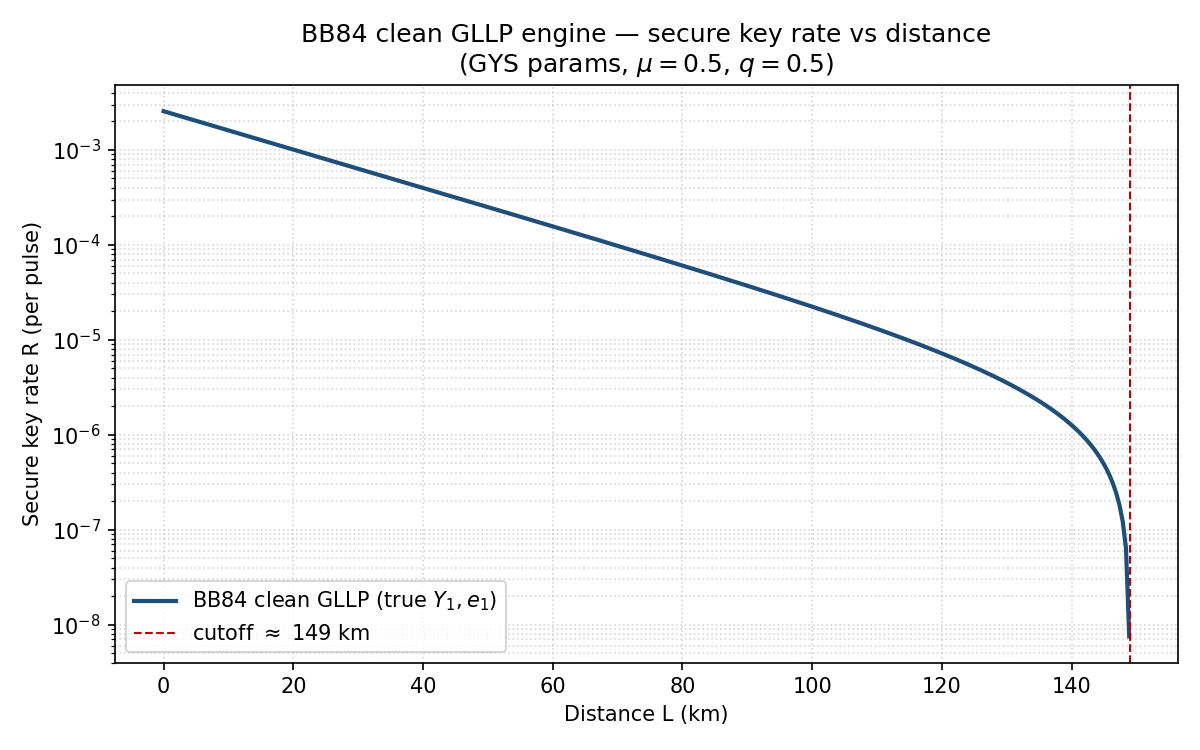
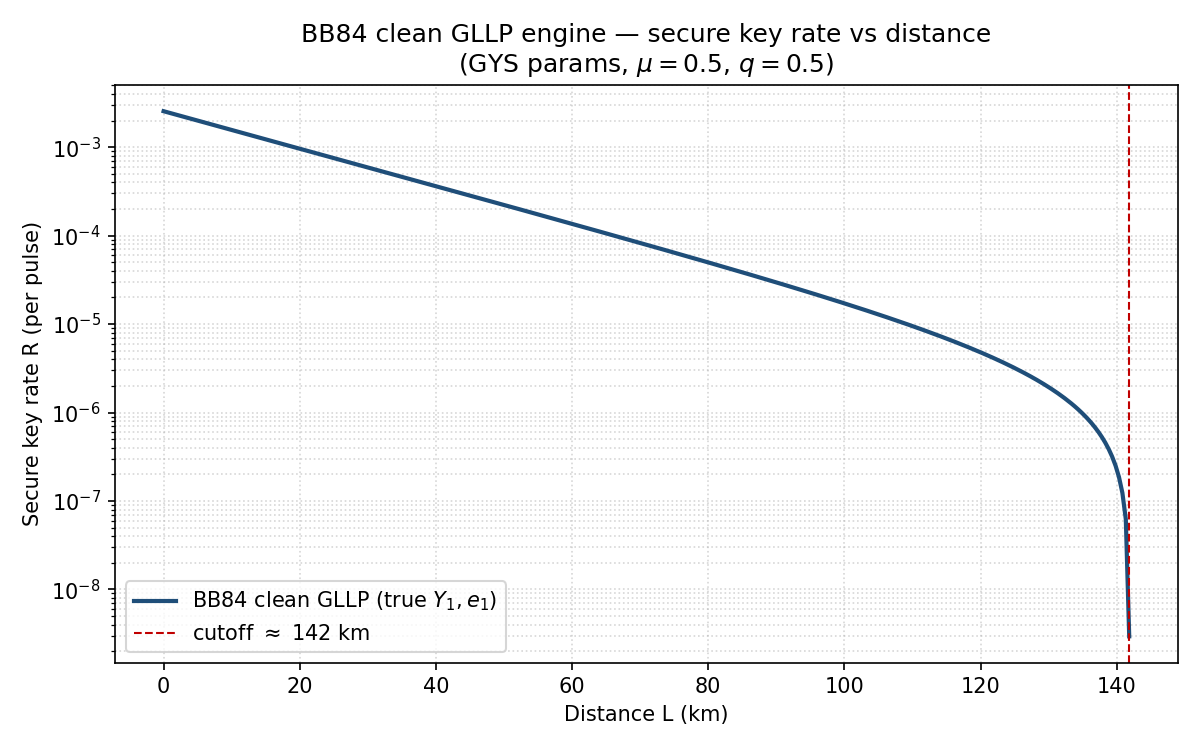
Milestone 2 Pair 1: PNS crash + infinite-decoy ceiling (BB84)
- keyrate.py: LMC Eq. 12/13 no-decoy GLLP bound (omega, key_rate_no_decoy);
  optimize_no_decoy (mu re-optimized per distance, MQZL p.6 principle).
- Correct frozen ALPHA_DB_PER_KM 0.20 -> 0.21 (GYS, MQZL Table 1): lands
  Fig.1 validation (insecurity bound 208 km exact, ceiling reach 142 km).
- sweep.py: two-curve Pair-1 plot (infinite-decoy CEILING vs no-decoy
  crash) + insecurity bound; regenerated M1 figure at alpha=0.21.

Note: blue curve is the infinite-decoy ceiling (true Y1/e1), NOT decoy
estimation. Practical two-decoy recovery (MQZL estimators) still to come.

Cutoffs: ceiling ~142 km, no-decoy crash ~40 km, insecurity ~208 km.

diff --git a/src/keyrate.py b/src/keyrate.py
@@ -4,12 +4,17 @@ GLLP secret-key-rate engine for BB84
 Equations coded directly from Lo, Ma & Chen (LMC),
 "Decoy State Quantum Key Distribution",
 arXiv:quant-ph/0411004v4, PRL 94, 230504 (2005).
-Equation numbers in comments refer to that paper.
+Equation numbers in comments refer to that paper unless noted otherwise
+(the no-decoy mu optimization cites MQZL, quant-ph/0503005).
 
-Milestone 1: clean-protocol engine (no eavesdropper, no decoy estimation yet).
+Milestone 1: clean-protocol engine (Eqs. 2,3,6,7,8,10,11).
+Milestone 2 Pair 1: no-decoy GLLP/PNS-crash bound (Eqs. 12,13) + per-distance
+mu optimization (optimize_no_decoy). Practical decoy ESTIMATION (MQZL
+Y1^L/e1^U estimators) is not implemented yet -- the current "decoy" ceiling
+is the infinite-decoy limit (true Y1/e1 via secret_key_rate).
 """
 
-from math import log2, exp, factorial
+from math import log2, log10, exp, factorial
 
 
 def binary_entropy(x):
@@ -27,7 +32,11 @@ def binary_entropy(x):
 ''' --- Frozen physical constants (GYS experiment, LMC Fig. 1 validation) ---
  Named per project convention so they can be deliberately un-frozen as
  "twists" later. Values are the GYS parameter set LMC validate against.'''
-ALPHA_DB_PER_KM = 0.2     # standard fiber attenuation (dB/km)
+ALPHA_DB_PER_KM = 0.21    # GYS fiber loss coefficient (dB/km), MQZL Table 1.
+                          # Was 0.20 (rounded); corrected to the sourced GYS
+                          # value. Reach ~ 1/alpha, so this shift lands the
+                          # Fig.1 validation: insecurity bound -> 208 km exact,
+                          # decoy reach -> 142 km (~140).
 ETA_DET = 0.045           # Bob's detector efficiency (dimensionless)
 P_DARK = 1.7e-6           # dark-count probability per pulse
 E_DETECTOR = 0.033        # optical misalignment error (per detected photon)
@@ -201,10 +210,10 @@ def e_1(eta, p_dark, e_detector):
     the physics give?" -- it is the optimistic ceiling. In the real
     security analysis e_1 must instead be an *upper bound*:
       - GLLP-only (no decoy): assume the worst case Eve could arrange
-        -> pessimistic bound, the ~30 km curve.
+        -> pessimistic bound, the ~40 km crash curve.
       - Decoy states (Milestone 2, MQZL): vary mu to get several
         (Q_mu, E_mu) equations and tightly *estimate* Y_1 and e_1
-        -> the ~140 km curve.
+        -> the ~142 km curve.
     Same symbol, three different ways of pinning it down.
     """
     return error_n(1, eta, p_dark, e_detector)
@@ -268,3 +277,122 @@ def secret_key_rate(mu, eta, p_dark, e_detector, f=F_EC, q=Q_SIFT):
     cost = Q_mu * f * binary_entropy(E_mu)
     good = Q_1 * (1 - binary_entropy(e1))
     return q * (good - cost)
+
+
+# --- Pair 1, no-decoy defense: prior-art GLLP bound (the PNS crash) ---------
+# These reproduce LMC's "GLLP without decoy" curve. Provenance / convention:
+# Eq. 12 is printed in LMC with NEITHER the sifting prefactor q NOR the
+# error-correction inefficiency f (both implicitly 1). We DEVIATE from the
+# printed form on purpose (student's choice): we apply the SAME frozen q and
+# f as secret_key_rate (Eq. 11), i.e. q*Q_mu{ -f*H2(E_mu) + Omega[...] }, so
+# the crash curve and the decoy curve share one convention. That makes the
+# vertical gap between them PURE PHYSICS (Omega and the blown-up single-
+# photon error E_mu/Omega), not a q/f artifact -- which is the whole point
+# of putting both on one plot. The distance crash (~142 km -> ~40 km) is
+# driven by Omega, not q or f, so it is the same either way.
+
+def omega(mu, eta, p_dark, n_max=N_MAX):
+    """
+    Untagged fraction Omega: the pessimistic fraction of Bob's detections
+    treated as originating from single-photon signals when NO decoy states
+    are used.
+
+    LMC Eq. 13:  1 - Omega = p_multi / Q_mu   =>   Omega = 1 - p_multi / Q_mu
+
+    p_multi is the probability Alice emits a multi-photon (n >= 2) signal.
+    For a Poisson source it is the complement of the vacuum and single-photon
+    weights:
+        p_multi = 1 - P(0) - P(1) = 1 - e^{-mu} - mu*e^{-mu}
+                = 1 - e^{-mu}(1 + mu)
+
+    WORST CASE (this is the whole point of the no-decoy bound): assume every
+    multi-photon pulse Alice ever emitted reached Bob AND is fully known to
+    Eve via photon-number splitting. Those detections are "tagged" (insecure).
+    Only the leftover, Q_mu - p_multi, may be counted as secure single-photon
+    detections -- so Omega is a pessimistic LOWER bound on the true single-
+    photon fraction. Decoy states later replace it with a measured, far
+    tighter value; that replacement is what recovers the distance.
+
+    Note Omega needs only Q_mu and p_multi, both computable by the honest
+    parties without any ability to distinguish Eve -- which is exactly why
+    this is the best they can do without decoy states.
+    """
+    p_multi = 1 - exp(-mu) * (1 + mu)
+    return 1 - p_multi / q_mu(mu, eta, p_dark, n_max)
+
+
+def key_rate_no_decoy(mu, eta, p_dark, e_detector, f=F_EC, q=Q_SIFT, n_max=N_MAX):
+    """
+    Secure key rate per pulse for BB84 WITHOUT decoy states, uses the prior-art
+    GLLP bound, i.e. the PNS-crash curve.
+
+    LMC Eq. 12 (as printed):
+        S >= Q_mu { -H2(E_mu) + Omega [ 1 - H2(E_mu / Omega) ] }
+
+    Coded here in the q/f-consistent form (project choice (b)) so it is
+    directly comparable on one plot to secret_key_rate (Eq. 11):
+        S >= q * Q_mu { -f * H2(E_mu) + Omega [ 1 - H2(E_mu / Omega) ] }
+
+    Both substitutions are pessimistic, forced because without decoy the
+    honest parties can measure only the aggregates Q_mu and E_mu:
+      - single-photon FRACTION Q_1/Q_mu  ->  Omega (Eq. 13), worst-case
+        untagged fraction;
+      - single-photon ERROR e_1  ->  E_mu / Omega, i.e. ALL observed error
+        dumped onto the untagged single-photon slice. Since Omega < 1 this
+        inflates the error; as L grows Omega shrinks and E_mu/Omega races
+        upward, H2(.) -> 1, the gain term vanishes, and R crashes (~40 km vs
+        the ~142 km ceiling).
+
+    Numerical guard: E_mu/Omega is an artificially inflated error that can
+    exceed 1/2. Our binary_entropy is symmetric about 1/2 (H2(0.75)=H2(0.25)),
+    so feeding it a value >1/2 would let 1-H2 spuriously RECOVER to a positive
+    gain -- physically wrong (an error >= 1/2 carries no extractable key). We
+    therefore cap the argument at 1/2, where H2 peaks: for e1_bound >= 1/2 the
+    gain term is exactly 0 and R is (correctly) non-positive. This only bites
+    past the cutoff where R is already negative, so it does not move the ~40 km
+    crash point; it just keeps the curve physical there.
+
+    Returns the RAW bound (may be negative past the cutoff), same convention
+    as secret_key_rate.
+    """
+    Q_mu = q_mu(mu, eta, p_dark, n_max)
+    E_mu = e_mu(mu, eta, p_dark, e_detector, n_max)
+    Om = omega(mu, eta, p_dark, n_max)
+
+    e1_bound = min(E_mu / Om, 0.5)          # cap: error >= 1/2 -> no key
+    good = Om * (1 - binary_entropy(e1_bound))
+    cost = f * binary_entropy(E_mu)
+    return q * Q_mu * (good - cost)
+
+
+def optimize_no_decoy(eta, p_dark, e_detector, f=F_EC, q=Q_SIFT,
+                      mu_min=1e-4, mu_max=0.9, n_grid=500):
+    """
+    Best no-decoy (prior-art GLLP) secure key rate at a given channel, found
+    by optimizing over Alice's mean photon number mu.
+
+    HOW (cited to MQZL): MQZL p.6, section "Choose optimal mu", prescribes
+    picking mu "by maximizing the key generation rate". There is NO closed
+    form for the optimum, so we implement that principle directly: scan mu
+    and return the value that maximizes key_rate_no_decoy (LMC Eq. 12). The
+    mu-scan is our own numerical maximization, NOT a transcribed equation.
+
+    WHY mu is re-optimized per distance (cited to LMC): LMC p.3 states that
+    without decoy, mu = O(eta). As eta shrinks with distance the optimal mu
+    shrinks with it, so no single frozen mu serves all distances -- unlike
+    the decoy curve, where mu = O(1) ~ 0.5 is ~distance-independent (LMC p.4).
+    That is exactly why the no-decoy curve gets its own per-point mu while
+    the decoy curve keeps the frozen MU.
+
+    The grid is LOG-spaced because the optimum sits at small mu (~1e-2) where
+    a linear grid would be too coarse. Returns (R_best, mu_best).
+    """
+    R_best = float("-inf")
+    mu_best = mu_min
+    log_lo, log_hi = log10(mu_min), log10(mu_max)
+    for i in range(n_grid + 1):
+        mu = 10 ** (log_lo + (log_hi - log_lo) * i / n_grid)
+        R = key_rate_no_decoy(mu, eta, p_dark, e_detector, f=f, q=q)
+        if R > R_best:
+            R_best, mu_best = R, mu
+    return R_best, mu_best

diff --git a/src/sweep.py b/src/sweep.py
@@ -1,14 +1,15 @@
 """
-Distance sweep + plot for the clean BB84 GLLP engine (Milestone 1).
+Distance sweep + plots for the BB84 GLLP engine.
 
-Sweeps the single free variable -- distance L (channel loss) -- and plots
-the SECURE key rate R vs L from secret_key_rate() in keyrate.py. Everything
-else (mu, dark counts, detector efficiency, misalignment, f, q) is frozen at
-the GYS values defined in keyrate.
+Sweeps the single free variable -- distance L (channel loss) -- and plots the
+SECURE key rate R vs L. Everything else (dark counts, detector efficiency,
+misalignment, f, q, and -- for the decoy curve -- mu) is frozen at the GYS
+values in keyrate.
 
-This is the CLEAN-protocol curve: no eavesdropper, true single-photon
-Y_1/e_1 fed straight into LMC Eq. 11. It is the optimistic ceiling, and its
-cutoff (~149 km) should sit near LMC Fig. 1's decoy curve (~140 km).
+Milestone 1: the clean/decoy-ceiling curve alone (secret_key_rate, Eq. 11).
+Milestone 2, Pair 1: adds the no-decoy PNS-crash curve (Eq. 12/13 with mu
+re-optimized per distance) and the insecurity bound (true e_1 = 1/4), so the
+figure reproduces the three curves of LMC Fig. 1.
 """
 
 import os
@@ -20,25 +21,26 @@ import matplotlib.pyplot as plt
 # correctly no matter which directory the script is run from.
 REPO_ROOT = os.path.dirname(os.path.dirname(os.path.abspath(__file__)))
 DEFAULT_OUTFILE = os.path.join(REPO_ROOT, "figures", "bb84_clean_keyrate.png")
+PAIR1_OUTFILE = os.path.join(REPO_ROOT, "figures", "bb84_pair1_pns_crash.png")
 
 from keyrate import (
-    secret_key_rate, eta_overall,
+    secret_key_rate, optimize_no_decoy, e_1, eta_overall,
     MU, P_DARK, E_DETECTOR, F_EC, Q_SIFT,
 )
 
-# Sweep range for the single swept variable, distance L (km).
+# Sweep range for the single swept variable, distance L (km). Extends past the
+# ~208 km insecurity bound so that bound is visible on the plot.
 L_MIN_KM = 0.0
-L_MAX_KM = 200.0
-L_POINTS = 400
+L_MAX_KM = 220.0
+L_POINTS = 440
 
 
 def sweep_key_rate(L_km):
     """
-    Secure key rate R at each distance in L_km (an array of km values).
+    Decoy/ceiling secure key rate at each L (LMC Eq. 11, frozen mu = MU).
 
-    Returns a numpy array of R per pulse (LMC Eq. 11). Values may be
-    negative past the cutoff -- masking for the plot is done separately so
-    this stays the raw engine output.
+    Returns a numpy array of R per pulse. Values may be negative past the
+    cutoff -- masking for the plot is done separately so this stays raw.
     """
     return np.array([
         secret_key_rate(MU, eta_overall(L), P_DARK, E_DETECTOR, f=F_EC, q=Q_SIFT)
@@ -46,40 +48,63 @@ def sweep_key_rate(L_km):
     ])
 
 
+def sweep_no_decoy(L_km):
+    """
+    No-decoy (PNS-crash) secure key rate at each L, with mu RE-OPTIMIZED at
+    every distance (LMC Eq. 12, MQZL p.6 "maximize R over mu" -- see
+    optimize_no_decoy). Returns a numpy array of the best R per pulse.
+    """
+    return np.array([
+        optimize_no_decoy(eta_overall(L), P_DARK, E_DETECTOR, f=F_EC, q=Q_SIFT)[0]
+        for L in L_km
+    ])
+
+
 def cutoff_distance(L_km, R):
     """
     Maximum secure distance: the L where R crosses from positive to
-    non-positive. Linearly interpolated between the two straddling sample
-    points. Returns None if R never crosses (all positive or all negative).
+    non-positive, linearly interpolated between the straddling samples.
+    Returns None if R never crosses.
     """
     R = np.asarray(R)
     sign_change = np.where((R[:-1] > 0) & (R[1:] <= 0))[0]
     if len(sign_change) == 0:
         return None
     i = sign_change[0]
-    # linear interpolation of the zero crossing between L[i] and L[i+1]
     frac = R[i] / (R[i] - R[i + 1])
     return L_km[i] + frac * (L_km[i + 1] - L_km[i])
 
 
+def insecurity_distance():
+    """
+    Distance where the true single-photon error e_1 reaches 1/4 -- LMC's
+    absolute insecurity bound (intercept-resend gives 25% QBER, so beyond
+    this no protocol, decoy or not, is secure). Found by bisection on e_1.
+    """
+    lo, hi = 0.0, 400.0
+    for _ in range(60):
+        mid = (lo + hi) / 2
+        if e_1(eta_overall(mid), P_DARK, E_DETECTOR) < 0.25:
+            lo = mid
+        else:
+            hi = mid
+    return (lo + hi) / 2
+
+
 def plot_key_rate(L_km, R, cutoff=None, outfile=DEFAULT_OUTFILE):
     """
-    Plot the SECURE key rate vs distance on a log-y axis and save to outfile.
-
-    Points where R <= 0 are masked (no secure key -> no line), so the curve
-    ends naturally at the cutoff distance rather than being floored to zero.
+    Milestone-1 single-curve plot: SECURE key rate vs distance (log-y).
+    Points where R <= 0 are masked so the curve ends at the cutoff.
     """
     R = np.asarray(R)
-    R_secure = np.where(R > 0, R, np.nan)   # mask insecure region
+    R_secure = np.where(R > 0, R, np.nan)
 
     fig, ax = plt.subplots(figsize=(8, 5))
     ax.semilogy(L_km, R_secure, color="#1f4e79", lw=2,
                 label="BB84 clean GLLP (true $Y_1, e_1$)")
-
     if cutoff is not None:
         ax.axvline(cutoff, color="#c00000", ls="--", lw=1,
                    label=f"cutoff $\\approx$ {cutoff:.0f} km")
-
     ax.set_xlabel("Distance L (km)")
     ax.set_ylabel("Secure key rate R (per pulse)")
     ax.set_title("BB84 clean GLLP engine — secure key rate vs distance\n"
@@ -92,9 +117,48 @@ def plot_key_rate(L_km, R, cutoff=None, outfile=DEFAULT_OUTFILE):
     return fig
 
 
+def plot_pair1(L_km, R_decoy, R_no_decoy, insecurity, outfile=PAIR1_OUTFILE):
+    """
+    Milestone-2 Pair-1 plot: decoy-ceiling vs no-decoy PNS-crash, plus the
+    insecurity bound, reproducing LMC Fig. 1's structure. Insecure points
+    (R <= 0) are masked so each curve ends at its own cutoff.
+    """
+    # Cutoffs from the RAW (signed) arrays passed in, BEFORE masking -- do not
+    # re-run the sweeps (the no-decoy sweep is ~220k rate evals).
+    c_decoy = cutoff_distance(L_km, R_decoy)
+    c_nod = cutoff_distance(L_km, R_no_decoy)
+    R_decoy = np.where(np.asarray(R_decoy) > 0, R_decoy, np.nan)
+    R_no_decoy = np.where(np.asarray(R_no_decoy) > 0, R_no_decoy, np.nan)
+
+    fig, ax = plt.subplots(figsize=(9, 5.5))
+    ax.semilogy(L_km, R_decoy, color="#1f4e79", lw=2,
+                label=f"GLLP ceiling (infinite decoy, true $Y_1,e_1$)  cutoff $\\approx${c_decoy:.0f} km")
+    ax.semilogy(L_km, R_no_decoy, color="#c0392b", lw=2,
+                label=f"GLLP no decoy ($\\mu$ re-opt., PNS crash)  cutoff $\\approx${c_nod:.0f} km")
+    ax.axvline(insecurity, color="#555555", ls="--", lw=1.2,
+               label=f"insecurity bound ($e_1=1/4$) $\\approx${insecurity:.0f} km")
+
+    ax.set_xlabel("Distance L (km)")
+    ax.set_ylabel("Secure key rate R (per pulse)")
+    ax.set_title("BB84 Pair 1: PNS attack — infinite-decoy ceiling vs no-decoy crash\n"
+                 f"(GYS params, $q={Q_SIFT}$, $f={F_EC}$)")
+    ax.grid(True, which="both", ls=":", alpha=0.5)
+    ax.legend(loc="lower left", fontsize=9)
+    fig.tight_layout()
+    fig.savefig(outfile, dpi=150)
+    print(f"saved {outfile}")
+    return fig
+
+
 if __name__ == "__main__":
     L_km = np.linspace(L_MIN_KM, L_MAX_KM, L_POINTS)
-    R = sweep_key_rate(L_km)
-    cutoff = cutoff_distance(L_km, R)
-    print(f"max secure distance ~ {cutoff:.1f} km" if cutoff else "no cutoff found")
-    plot_key_rate(L_km, R, cutoff)
+
+    R_decoy = sweep_key_rate(L_km)
+    R_no_decoy = sweep_no_decoy(L_km)
+    insecurity = insecurity_distance()
+
+    print(f"decoy/ceiling cutoff ~ {cutoff_distance(L_km, R_decoy):.1f} km")
+    print(f"no-decoy crash cutoff ~ {cutoff_distance(L_km, R_no_decoy):.1f} km")
+    print(f"insecurity bound (e_1=1/4) ~ {insecurity:.1f} km")
+
+    plot_pair1(L_km, R_decoy, R_no_decoy, insecurity)
